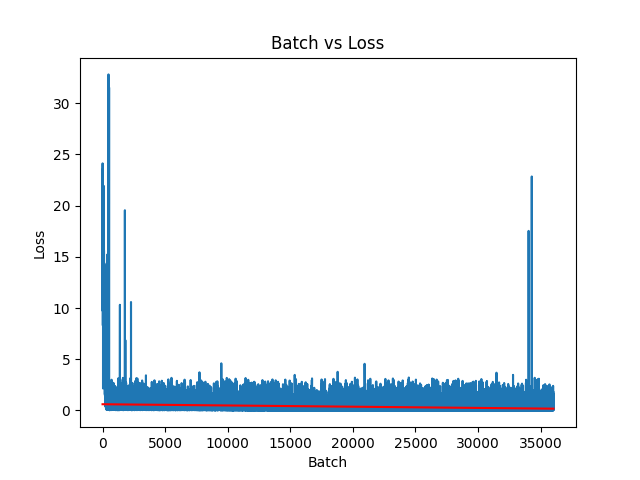
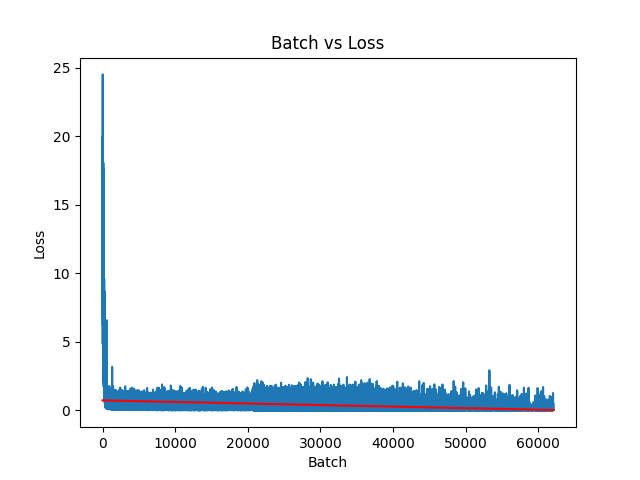
update training metrics

diff --git a/format_dataset.py b/format_dataset.py
@@ -1,4 +1,4 @@
-# Original Alpaca Dataset dataset located here: 
+# Original Alpaca dataset located here: 
 # https://github.com/gururise/AlpacaDataCleaned/raw/main/alpaca_data_cleaned.json
 
 import json

diff --git a/README.md b/README.md
@@ -80,6 +80,11 @@ python train_lora.py
 
 ### Results
 
+| Epoch | Train Loss | Eval Loss  |
+|-------|------------|------------|
+| 1     | 12102.7285 |  2048.0518 |
+| 2     | 9318.9199  |  2033.5337 |
+
 ![image](assets/training_loss.png)
 
-Loss Trendline: y = -1.1981345834547134e-05x + 0.6018711605440453
+Loss Trendline: y = -1.1302001815753724e-05x + 0.73000991550589
